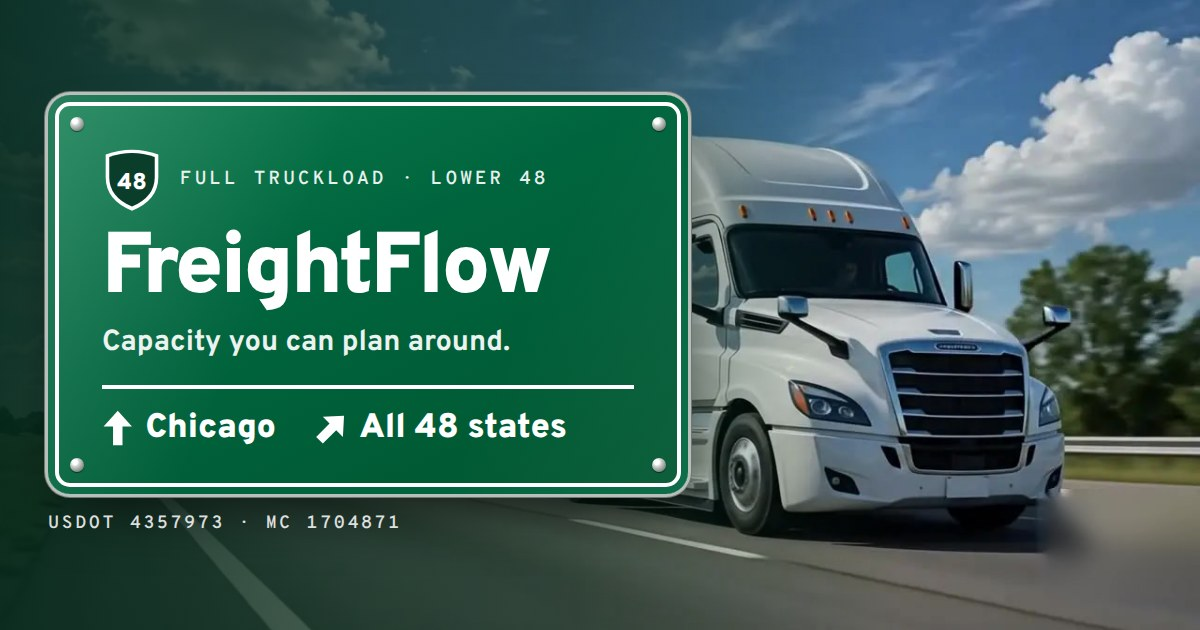
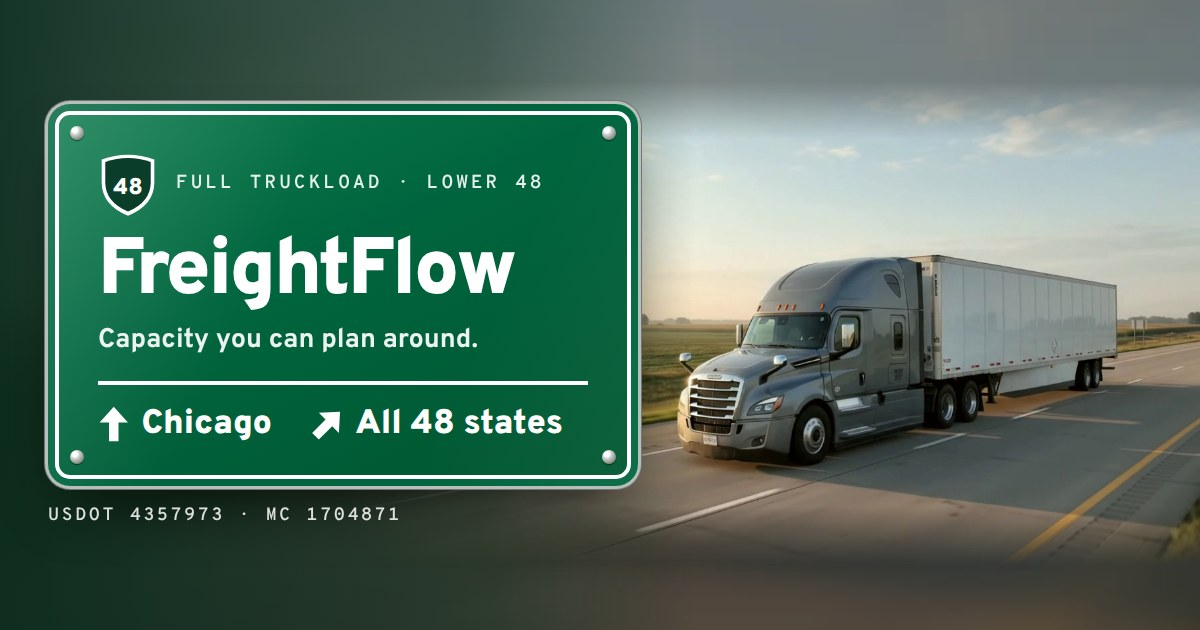
Rebuild the social share image around the grey hero truck
The OG / Twitter card now pairs the guide sign with the grey Cascadia from
the hero clip (frame at 3 s), shown whole in a feathered window on the
right over a blurred backdrop of the same scene, like the desktop hero, so
the sign never covers the truck. encode-hero.mjs writes the card's frames
to video/public/og (gitignored) and now runs before the Remotion bundle.
Image alt text updated.

Claude-Session: https://claude.ai/code/session_019mc4qsmD1L2oXfyPA5MrAg

diff --git a/video/src/OgCard.tsx b/video/src/OgCard.tsx
@@ -3,18 +3,44 @@ import { C } from './palette';
 import { MONO, useSignFonts } from './fonts';
 import { Arrow, Legend, Panel } from './GuideSign';
 
-/** 1200×630 social card: a physical guide sign over the real FreightFlow truck photo. */
+// The truck window on the right: the full 16:9 frame, feathered on its left,
+// top and bottom edges so it melts into the blurred backdrop.
+const WINDOW = { left: 340, width: 860, height: 484 };
+const WINDOW_MASK = 'linear-gradient(90deg, transparent 0%, #000 22%), linear-gradient(180deg, transparent 0%, #000 12%, #000 88%, transparent 100%)';
+
+/**
+ * 1200×630 social card: a physical guide sign beside the grey Cascadia from
+ * the hero clip. Like the desktop hero, the whole frame sits in a feathered
+ * window on the right, over a blurred backdrop of the same scene, so the sign
+ * never covers the truck.
+ */
 export function OgCard() {
   useSignFonts();
   return (
     <AbsoluteFill style={{ backgroundColor: '#0c110f' }}>
       <Img
-        src={staticFile('footage-smooth/clean-50.jpg')}
-        style={{ position: 'absolute', inset: 0, width: '100%', height: '100%', objectFit: 'cover', objectPosition: '70% 50%' }}
+        src={staticFile('og/backdrop.jpg')}
+        style={{ position: 'absolute', inset: 0, width: '100%', height: '100%', objectFit: 'cover', transform: 'scale(1.1)' }}
       />
-      <AbsoluteFill style={{ background: 'linear-gradient(90deg, rgba(6,42,28,0.92) 0%, rgba(6,42,28,0.55) 48%, rgba(6,42,28,0) 75%)' }} />
+      <AbsoluteFill style={{ backgroundColor: 'rgba(0,0,0,0.38)' }} />
+      <Img
+        src={staticFile('og/frame.jpg')}
+        style={{
+          position: 'absolute',
+          left: WINDOW.left,
+          top: (630 - WINDOW.height) / 2 + 8,
+          width: WINDOW.width,
+          height: WINDOW.height,
+          objectFit: 'cover',
+          WebkitMaskImage: WINDOW_MASK,
+          WebkitMaskComposite: 'source-in',
+          maskImage: WINDOW_MASK,
+          maskComposite: 'intersect',
+        }}
+      />
+      <AbsoluteFill style={{ background: 'linear-gradient(90deg, rgba(6,42,28,0.9) 0%, rgba(6,42,28,0.5) 40%, rgba(6,42,28,0) 58%)' }} />
       <AbsoluteFill style={{ padding: 48, justifyContent: 'center' }}>
-        <Panel style={{ width: 640, padding: '50px 54px 44px', borderRadius: 22 }}>
+        <Panel style={{ width: 590, padding: '46px 50px 40px', borderRadius: 22 }}>
           <div style={{ display: 'flex', alignItems: 'center', gap: 18 }}>
             <svg width={60} height={67} viewBox="0 0 100 112">
               <path d="M6 16 Q50 0 94 16 L94 54 Q94 92 50 110 Q6 92 6 54 Z" fill={C.white} />
@@ -25,8 +51,8 @@ export function OgCard() {
             </svg>
             <Legend style={{ fontSize: 19, opacity: 0.9 }}>Full truckload · Lower 48</Legend>
           </div>
-          <div style={{ marginTop: 18, fontWeight: 900, fontSize: 86, lineHeight: 0.95, letterSpacing: '-0.035em' }}>FreightFlow</div>
-          <div style={{ marginTop: 12, fontWeight: 700, fontSize: 29, opacity: 0.92 }}>Capacity you can plan around.</div>
+          <div style={{ marginTop: 18, fontWeight: 900, fontSize: 80, lineHeight: 0.95, letterSpacing: '-0.035em' }}>FreightFlow</div>
+          <div style={{ marginTop: 12, fontWeight: 700, fontSize: 27, opacity: 0.92 }}>Capacity you can plan around.</div>
           <div style={{ marginTop: 24, paddingTop: 18, borderTop: `4px solid ${C.white}`, display: 'flex', gap: 40, alignItems: 'center' }}>
             {(
               [

diff --git a/index.html b/index.html
@@ -35,14 +35,14 @@
     <meta property="og:image" content="https://freightflow.group/og-image.jpg">
     <meta property="og:image:width" content="1200">
     <meta property="og:image:height" content="630">
-    <meta property="og:image:alt" content="FreightFlow highway guide sign: full truckload, all 48 states, Chicago dispatch hub.">
+    <meta property="og:image:alt" content="FreightFlow highway guide sign (full truckload, all 48 states, Chicago dispatch hub) beside a grey Freightliner Cascadia on the interstate.">
 
     <!-- Twitter Card -->
     <meta name="twitter:card" content="summary_large_image">
     <meta name="twitter:title" content="FreightFlow | Full-Truckload Carrier — 48 States">
     <meta name="twitter:description" content="Capacity you can plan around: full-truckload freight across the lower 48, dispatched from Chicago, tracked on every load.">
     <meta name="twitter:image" content="https://freightflow.group/og-image.jpg">
-    <meta name="twitter:image:alt" content="FreightFlow highway guide sign: full truckload, all 48 states, Chicago dispatch hub.">
+    <meta name="twitter:image:alt" content="FreightFlow highway guide sign (full truckload, all 48 states, Chicago dispatch hub) beside a grey Freightliner Cascadia on the interstate.">
 
     <!-- Schema.org -->
     <script type="application/ld+json">

diff --git a/README.md b/README.md
@@ -55,7 +55,7 @@ Rendering needs a system `ffmpeg` with libx264, libvpx-vp9, the `removelogo` fil
   - Desktop shows the full frame as a feathered window on the right, so the sign never covers the truck; phones and tablets show it as a band above the sign.
   - Reduced-motion and Data Saver visitors get the last frame as a still (see `src/components/sections/Hero.tsx`).
 - **Photos** (`fleet`, `drivers`, `final`): an owner-supplied shot in `video/public/photos-source/<name>.*` is cropped and encoded as is (the Fleet photo uses one); otherwise the graded Remotion still (`PhotoFleet`, `PhotoDrivers`, `PhotoFinal`) from the truck footage frames in `video/public/footage/` is used. `prepare-footage.mjs` first inpaints a road smear in those frames (output in `video/public/footage-smooth/`, gitignored, rebuilt on demand).
-- **`OgCard`**: the 1200×630 Open Graph / Twitter image.
+- **`OgCard`**: the 1200×630 Open Graph / Twitter image, a guide sign beside the hero truck (frames written to `video/public/og/` by `encode-hero.mjs`).
 - **`generate-trucks.mjs`**: optional. Generates new truck stills and a hero clip with the Gemini API into `video/public/generated/` for review (needs `GEMINI_API_KEY` with billing enabled).
 
 Remotion is free for individuals and companies with up to 3 employees; larger teams need a [company license](https://www.remotion.pro/license).
